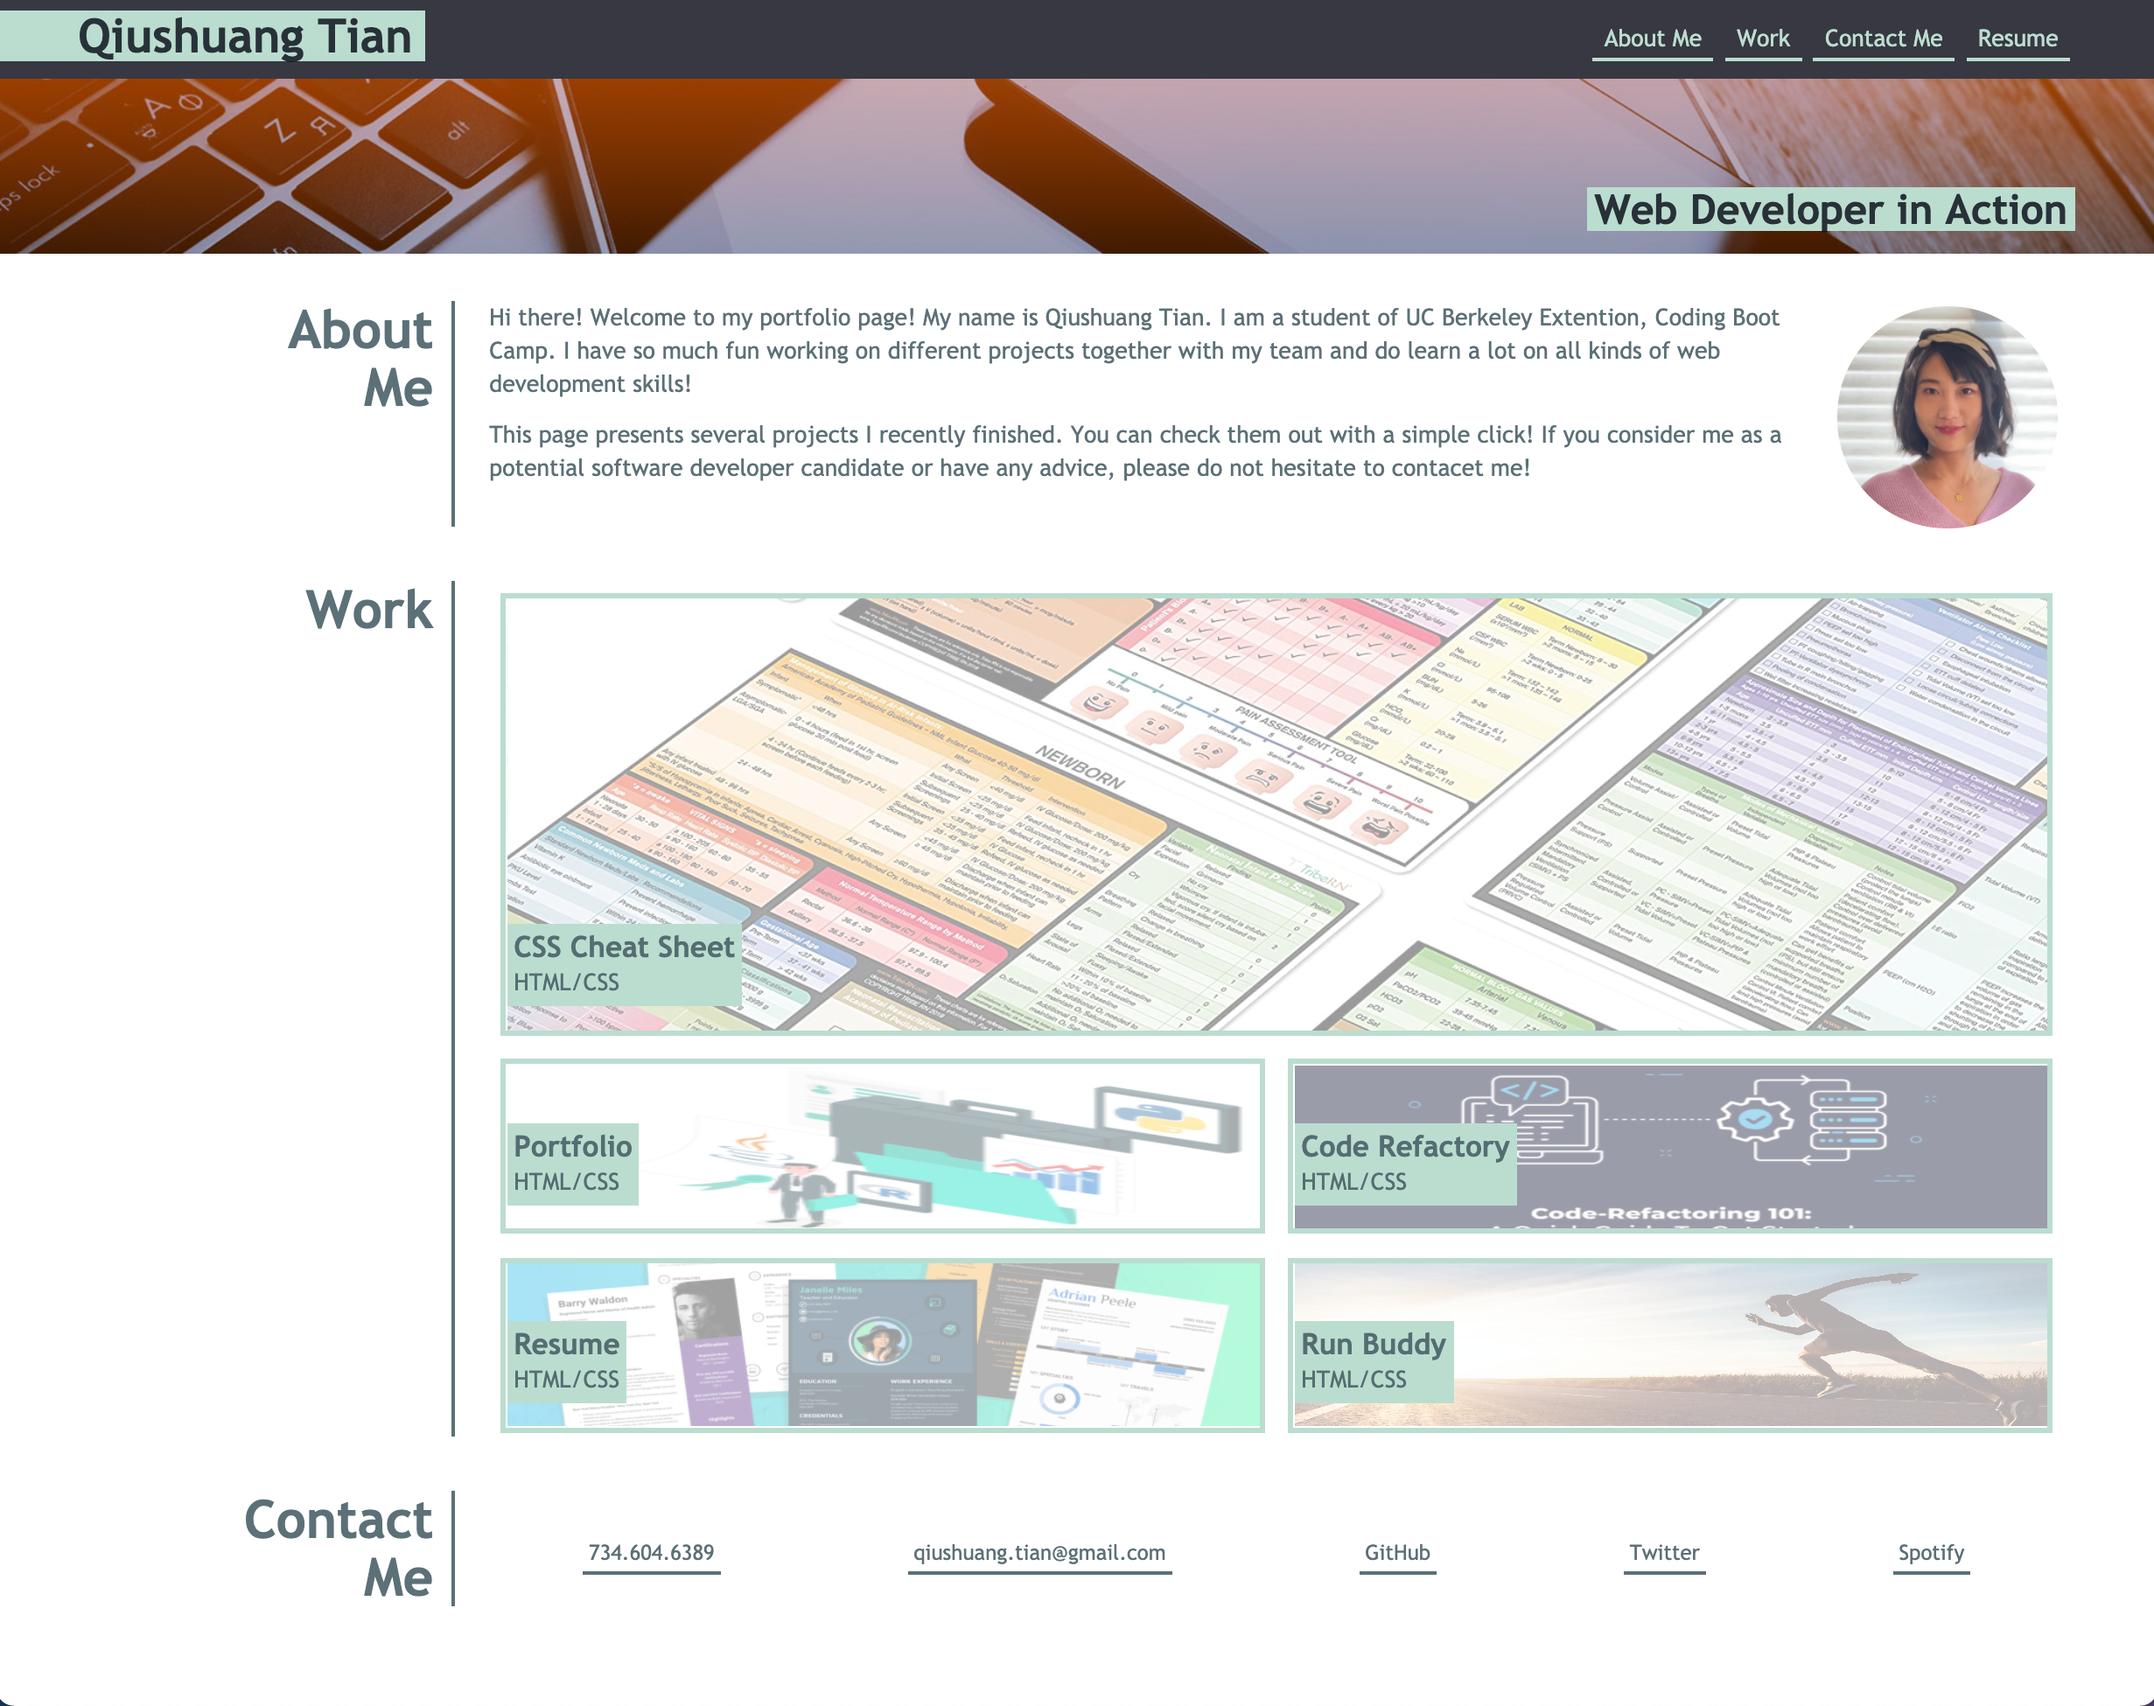
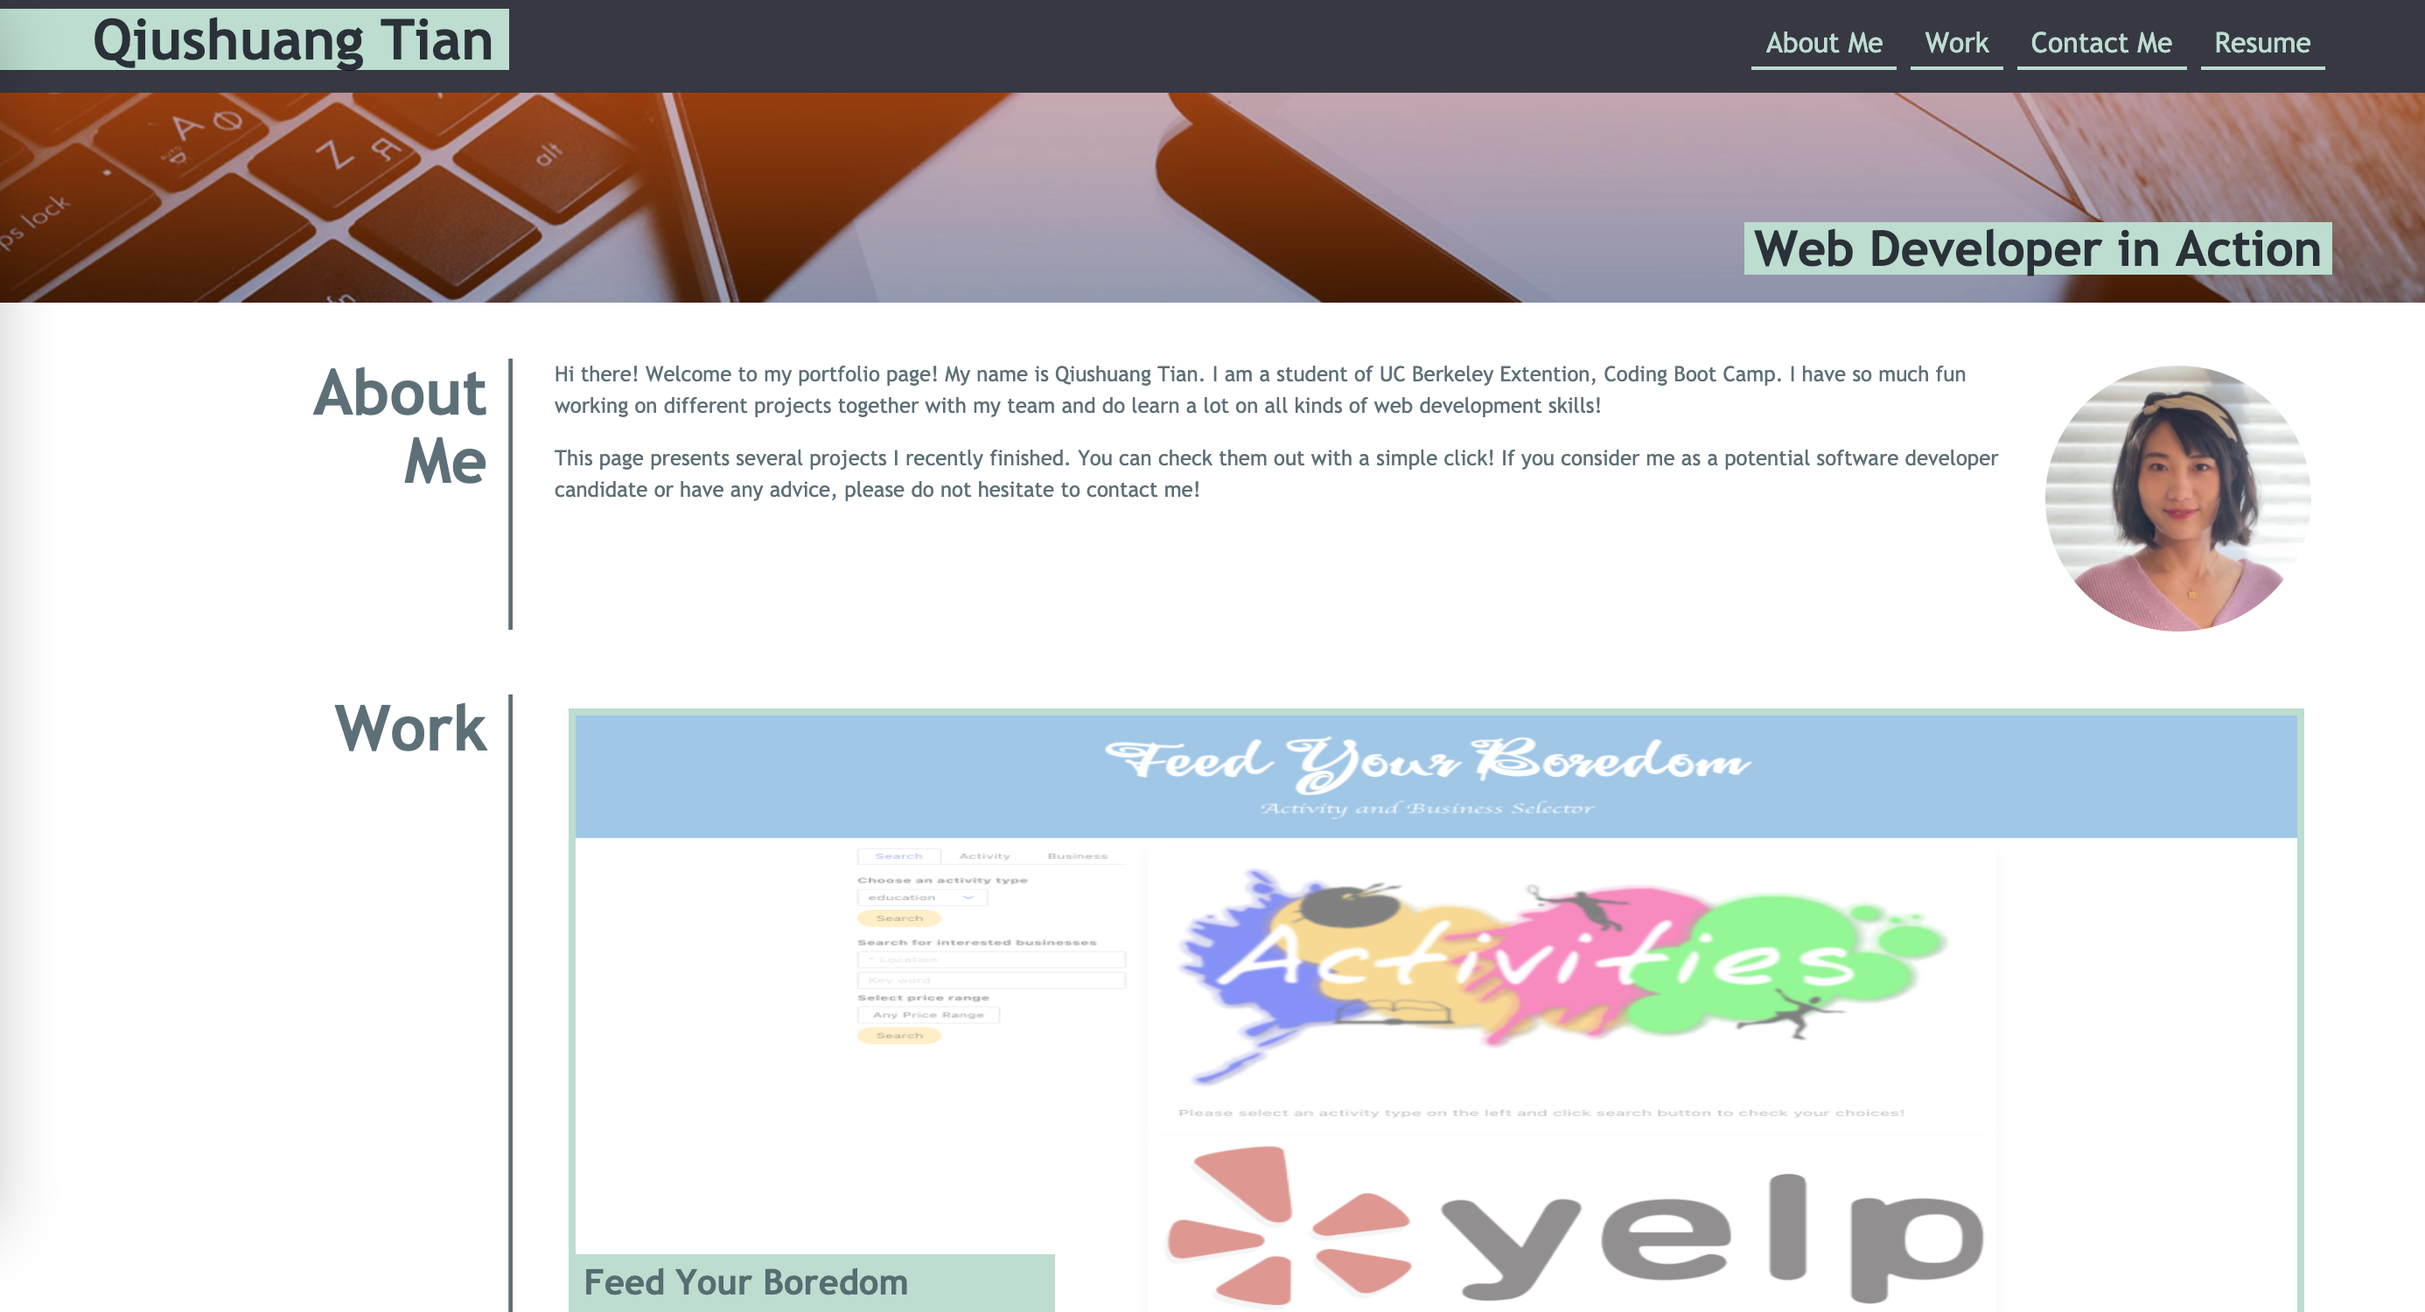
updated background images and homepage screenshots

diff --git a/assets/css/style.css b/assets/css/style.css
@@ -2,8 +2,8 @@
     --dark-grey: rgba(5, 6, 19, 0.8);
     --light-tuiquoise: rgba(187, 221, 207, 1);
     --dark-green: rgba(74, 96, 104, 0.9);
-    --opacity-low: .4;
-    --opacity-high: .6;
+    --opacity-low: .5;
+    --opacity-high: .7;
 }
 
 html {
@@ -134,7 +134,7 @@ nav ul {
 
 .block-descr-box {
     width: 80%;
-    font-size: 2rem;
+    font-size: 1.5rem;
     padding: 0 10px;
 }
 
@@ -155,14 +155,14 @@ nav ul {
 }
 
 .project {
-    height: 370px;
+    height: 250px;
     width: 50%;
     padding: 10px;
 }
 
 /* the image of the first project is larger */
 .project:nth-of-type(1) {
-    height: 600px;
+    height: 500px;
     width: 100%;
 }
 
@@ -184,35 +184,37 @@ nav ul {
 }
 
 .project-background:hover {
-    opacity: var(--opacity-hight);
+    opacity: var(--opacity-high);
 }
 
 #project1 .project-background{
-    background-image: url("https://raw.githubusercontent.com/JessGiannini/FeedYourBoredom/main/assets/images/homepage.png");
-    background-size: cover;
+    background-image: url("../images/feedYourBoredom.png");
+    background-size: 100% 100%;
 }
 
 #project2 .project-background{
-    background-image: url("https://raw.githubusercontent.com/qtian13/Weather-Dashboard/main/assets/images/desktop_screen.png");
-    background-size: 120% 100%;
+    background-image: url("../images/weatherDashboard.png");
+    background-size: 100% 100%;
 }
 
 #project3 .project-background{
-    background-image: url("https://raw.githubusercontent.com/qtian13/code-quiz/main/assets/images/homepage.png");
-    background-size: 100% 150%;
+    background-image: url("../images/codeQuiz.png");
+    background-size: 100% 100%;
 }
 
 #project4 .project-background{
-    background-image: url("https://raw.githubusercontent.com/qtian13/password-generator/main/assets/images/desktop_screen.png");
-    background-size: 100% 200%;
+    background-image: url("../images/passwordGenerator.png");
+    background-size: 100% 100%;
 }
 
 #project5 .project-background{
-    background-image: url("https://raw.githubusercontent.com/qtian13/CSS-cheat-sheet/main/assets/images/desktop_screen.png");
-    background-size: 100% 200%;
+    background-image: url("../images/cheatSheet.png");
+    background-size: 100% 100%;
 }
 
 .project-title {
+    overflow: hidden;
+    max-width: 100%;
     position: absolute;
     bottom: 20px;
     color: var(--dark-green);
@@ -359,7 +361,7 @@ nav ul {
     }
 
     .project:nth-of-type(1) {
-        height: 300px;
+        height: 340px;
     }
 }
 

diff --git a/index.html b/index.html
@@ -59,7 +59,7 @@
                         </div>
                         <div class="project-title">
                             <h4>Feed Your Boredom</h4>
-                            <p>HTML/CSS/Bulma/JavaScript/jQuery/Openlayers</p>
+                            <p>HTML/<wbr>CSS/<wbr>Bulma/<wbr>JavaScript/<wbr>jQuery/<wbr>Openlayers</p>
                         </div>
                     </a>
                 </figure>
@@ -69,7 +69,7 @@
                         </div>
                         <div class="project-title">
                             <h4>Weather Dashboard</h4>
-                            <p>HTML/CSS/Bootstrap/JavaScript/jQuery</p>
+                            <p>HTML/<wbr>CSS/<wbr>Bootstrap/<wbr>JavaScript/<wbr>jQuery</p>
                         </div>
                     </a>
                 </figure>
@@ -79,7 +79,7 @@
                         </div>
                         <div class="project-title">
                             <h4>Code Quiz</h4>
-                            <p>HTML/CSS</p>
+                            <p>HTML/<wbr>CSS</p>
                         </div>
                     </a>
                 </figure>
@@ -89,7 +89,7 @@
                         </div>
                         <div class="project-title">
                             <h4>Password Generator</h4>
-                            <p>HTML/CSS</p>
+                            <p>HTML/<wbr>CSS</p>
                         </div>
                     </a>
                 </figure>
@@ -99,7 +99,7 @@
                         </div>
                         <div class="project-title">
                             <h4>CSS Cheat Sheet</h4>
-                            <p>HTML/CSS</p>
+                            <p>HTML/<wbr>CSS</p>
                         </div>
                     </a>
                 </figure>
